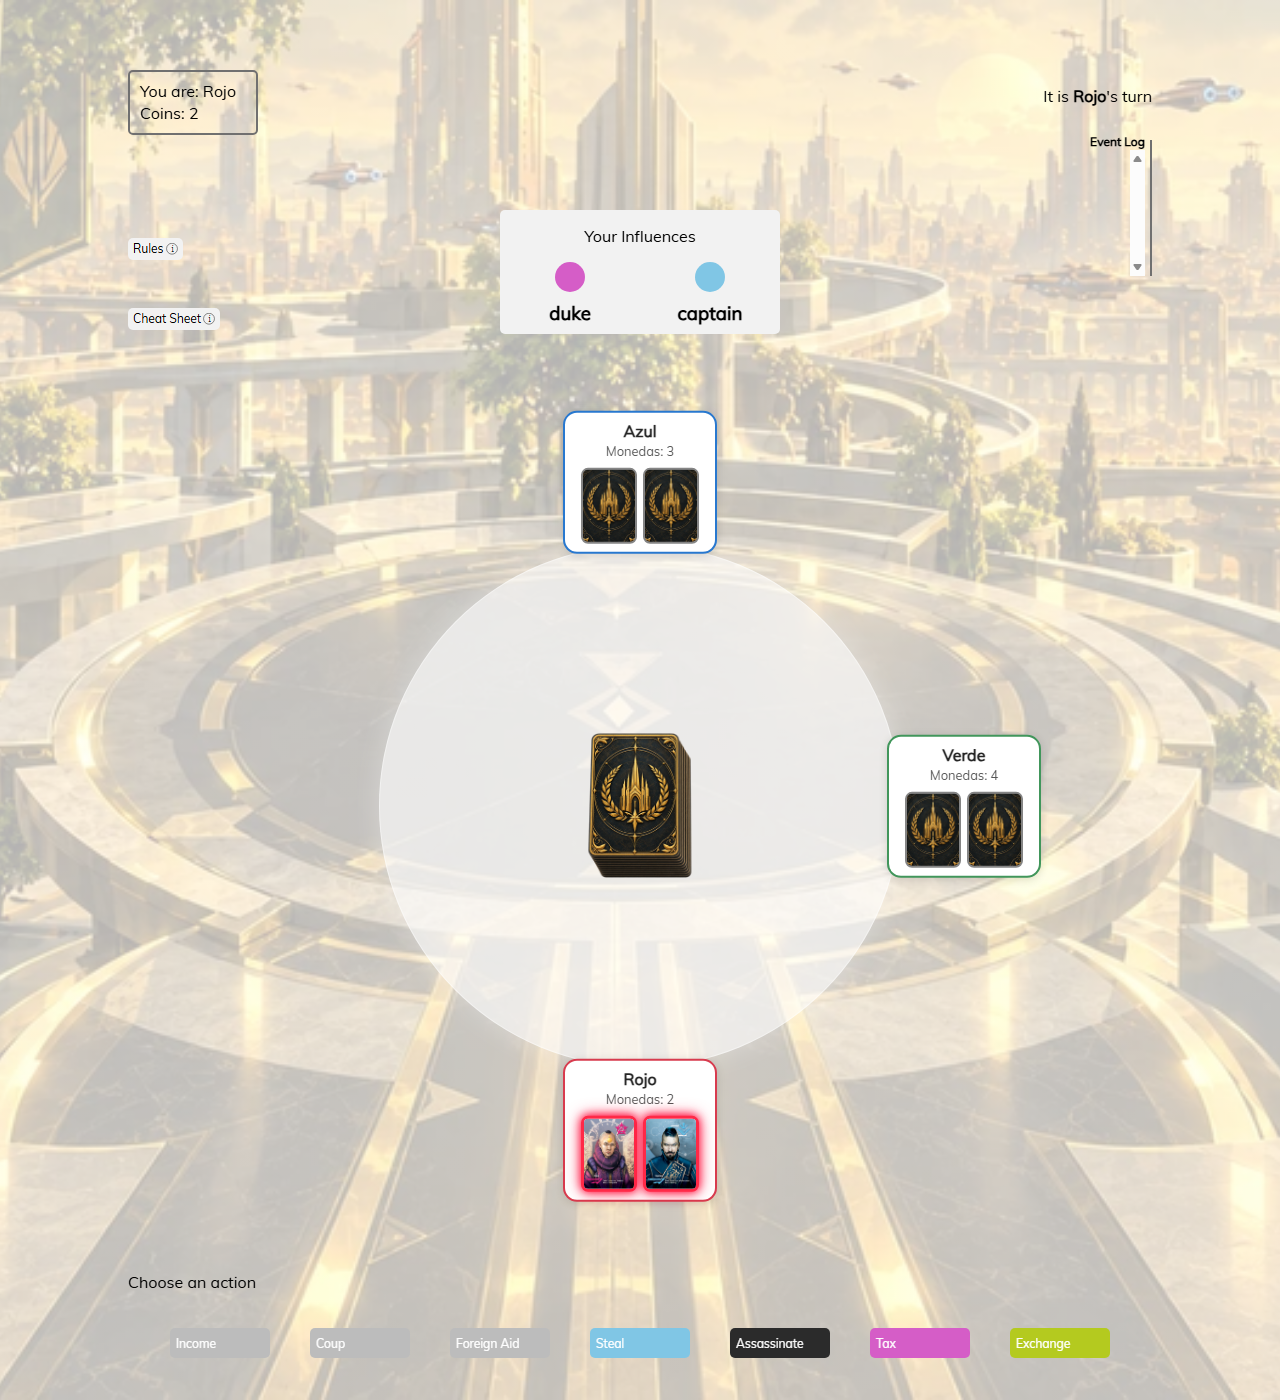
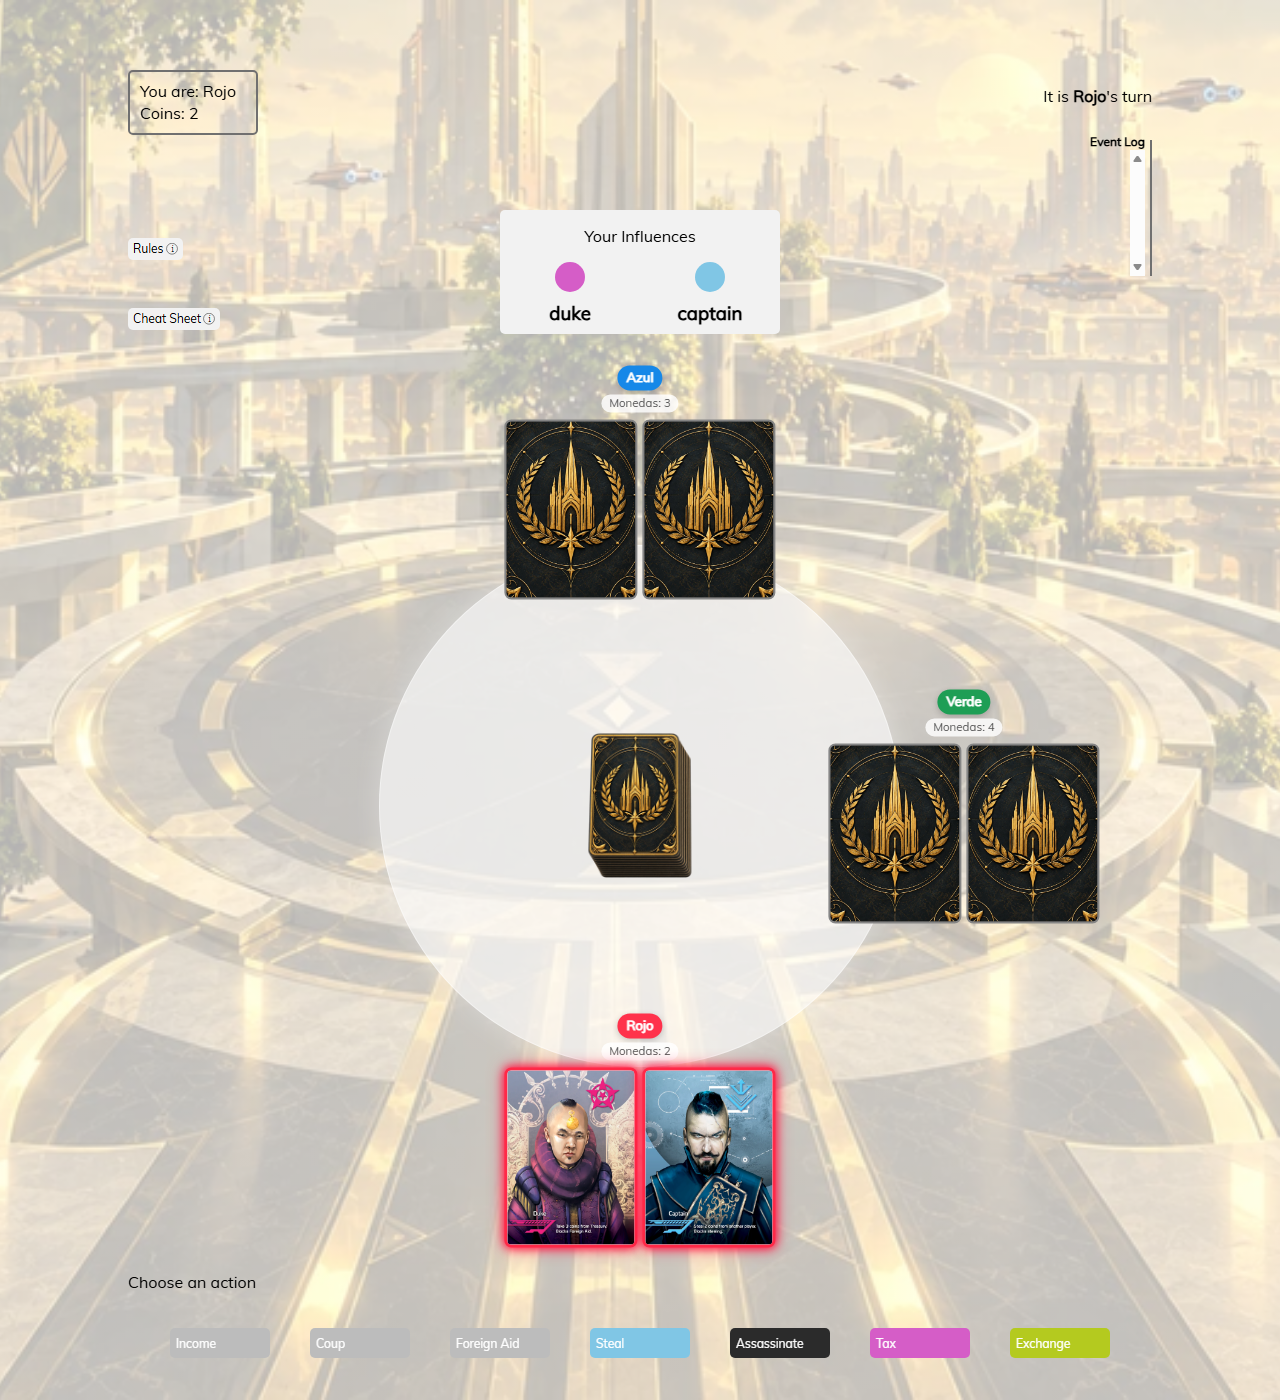
fix(board): render large player cards without seat panels

Changed region(s): [[0.375, 0.7064, 0.625, 0.9214], [0.625, 0.4914, 0.875, 0.6757], [0.375, 0.2457, 0.625, 0.43]]

diff --git a/coup-client/src/components/game/PlayerBoardStyles.css b/coup-client/src/components/game/PlayerBoardStyles.css
@@ -56,24 +56,25 @@
 .PlayerBoardSeat {
     position: absolute;
     z-index: 3;
-    width: 154px;
-    max-width: 42%;
+    width: max-content;
+    max-width: 46%;
     box-sizing: border-box;
-    padding: 8px;
-    border: 2px solid var(--player-color, #707070);
-    border-radius: 14px;
-    background: #fff;
     color: #252525;
-    box-shadow: 0 2px 8px rgba(0, 0, 0, 0.12);
     text-align: center;
     transform: translate(-50%, -50%);
 }
 
 .PlayerBoardSeatName {
     overflow: hidden;
-    margin: 0;
-    color: #252525;
-    font-size: 1rem;
+    width: fit-content;
+    max-width: 100%;
+    margin: 0 auto 4px;
+    padding: 4px 9px;
+    border-radius: 999px;
+    background: var(--player-color, #707070);
+    box-shadow: 0 2px 6px rgba(0, 0, 0, 0.2);
+    color: #fff;
+    font-size: 0.82rem;
     font-weight: 600;
     line-height: 1.25;
     text-overflow: ellipsis;
@@ -81,22 +82,28 @@
 }
 
 .PlayerBoardSeatCoins {
-    margin: 3px 0 8px;
+    display: table;
+    margin: 0 auto 7px;
+    padding: 2px 8px;
+    border-radius: 999px;
+    background: rgba(255, 255, 255, 0.82);
     color: #555;
-    font-size: 0.8rem;
+    font-size: 0.72rem;
     line-height: 1.2;
 }
 
 .PlayerBoardSeatInfluences {
     display: flex;
     justify-content: center;
-    gap: 6px;
+    gap: 5px;
 }
 
 .PlayerInfluenceSlot {
     display: inline-flex;
-    width: 56px;
-    height: 76px;
+    flex: 0 0 auto;
+    width: clamp(76px, 10.4vw, 134px);
+    height: auto;
+    aspect-ratio: 0.74;
     box-sizing: border-box;
     align-items: center;
     justify-content: center;
@@ -146,12 +153,22 @@
 
 @media only screen and (max-width: 520px) {
     .PlayerBoardSeat {
-        width: 122px;
-        padding: 6px;
+        max-width: 48%;
     }
 
     .PlayerInfluenceSlot {
-        width: 46px;
-        height: 64px;
+        width: clamp(58px, 15.5vw, 82px);
+    }
+
+    .PlayerBoardSeatName {
+        font-size: 0.72rem;
+    }
+
+    .PlayerBoardSeat[data-seat-edge="left"] {
+        transform: translate(calc(-50% + clamp(16px, 5vw, 26px)), -50%);
+    }
+
+    .PlayerBoardSeat[data-seat-edge="right"] {
+        transform: translate(calc(-50% - clamp(16px, 5vw, 26px)), -50%);
     }
 }

diff --git a/coup-client/src/components/game/PlayerBoard.js b/coup-client/src/components/game/PlayerBoard.js
@@ -74,7 +74,7 @@ export default function PlayerBoard(props) {
     const seats = getPlayerBoardSeats(players, props.observerName)
 
     return (
-        <div className="PlayerBoardContainer" role="group" aria-label="Tablero de jugadores">
+        <div className="PlayerBoardContainer" data-player-count={players.length} role="group" aria-label="Tablero de jugadores">
             <div className="PlayerBoardCenter" aria-hidden="true" />
             <img
                 className="PlayerBoardDeck"
@@ -84,6 +84,7 @@ export default function PlayerBoard(props) {
             />
             {seats.map(({ player, seatIndex, left, top, isObserver }) => {
                 const isCurrentPlayer = player.name === props.currentPlayer
+                const seatEdge = left <= 20 ? 'left' : left >= 80 ? 'right' : undefined
                 const seatClassName = [
                     'PlayerBoardSeat',
                     isCurrentPlayer ? 'PlayerBoardSeat--current' : ''
@@ -93,6 +94,7 @@ export default function PlayerBoard(props) {
                     className={seatClassName}
                     key={player.name}
                     data-seat-index={seatIndex}
+                    data-seat-edge={seatEdge}
                     data-current-player={isCurrentPlayer ? 'true' : 'false'}
                     aria-current={isCurrentPlayer ? 'true' : undefined}
                     style={{

diff --git a/docs/plans/circular-board-visual-polish/plan_circular_board_visual_polish.md b/docs/plans/circular-board-visual-polish/plan_circular_board_visual_polish.md
@@ -34,7 +34,7 @@ En el checkout local, el archivo de fondo disponible se llama `fotos/backgrond.p
 1. `background.webp` mide como máximo 1024 px de ancho, conserva proporción/transparencia y es el único asset nuevo; el PNG local no aparece en el diff.
 2. El fondo cubre la página/viewport completa, se muestra centrado sin deformarse y tiene opacidad efectiva aproximada de 30% sobre blanco; la plataforma circular central sigue reconocible como paisaje.
 3. El disco central es claramente circular, traslúcido, está centrado detrás del mazo y no altera su tamaño ni interacción.
-4. Las cartas de jugador se perciben mayores que las actuales (desktop 48×64 px, compacto 42×58 px) y no se solapan ni ocultan monedas, asientos, centro o controles para 2, 3, 4, 5 y 6 jugadores.
+4. Las cartas de jugador se perciben grandes (hasta 134 px de ancho en escritorio; `clamp(58px, 15.5vw, 82px)` en compacto), sin caja blanca exterior ni recortes laterales para 2–6 jugadores. Las etiquetas conservan nombre, monedas y color.
 5. Se mantienen visibles los colores y el contorno neón del turno, cartas propias/rivales, y estados de influencia perdida/eliminación.
 6. Previews de escritorio y ancho compacto permiten comparar la composición con las referencias; el navegador compila el cliente sin errores.
 
@@ -47,6 +47,7 @@ Una fase `F1 — Integrar fondo, centro y escala de cartas`. Pregunta: ¿el tabl
 - 2026-09-25 20:03 -06:00: Alquimista reclamó F1 en la rama `issue/9-circular-board-visual-polish`; worktree limpio y basado en `origin/master` (`64593af`), con un commit previo de checkpoint documental (`bf38210`). Fuente inspeccionada: 1672×941 RGB, sin canal alfa. El recorte centrado cuadrado conserva la plataforma circular central.
 - 2026-09-25 20:54 -06:00: F1 cerrada; fondo WebP 1024×576 RGB (224710 bytes), proporción preservada por redimensionado, sin alfa en el PNG fuente. El tablero con disco y cartas mayores se revisó en 2–6 jugadores, 1280×1400 y 490×1200; panel de acciones visible debajo. Evidencia: `docs/plans/circular-board-visual-polish/report_issue_9_F1.md`. Dev server compiló con advertencias ESLint preexistentes; `git diff --check` correcto; no se ejecutaron tests ni build de producción. Pasa a revisión del Orquestador.
 - 2026-09-25 21:40 -06:00: Corrección solicitada tras revisión: el fondo pasó de una capa absoluta dentro del tablero cuadrado a cubrir todo el viewport desde `.GameContainer::before`; ahora usa `cover` centrado, capa blanca CSS de 0.70 y opacidad efectiva aproximada de imagen 0.30. Se renovaron las diez capturas 2–6 jugadores × escritorio/compacto y se inspeccionó la cobertura de las franjas de página. PR #10 permanece abierto y sin merge.
+- 2026-09-26 05:06 -06:00: Nueva corrección de PR #10: se quitó la caja blanca exterior de los asientos; las cartas crecieron a 134px máximo en escritorio y 58–82px en compacto, con etiquetas de jugador en color. Se detectaron recortes compactos en los asientos próximos al borde para 3–5; `PlayerBoard.js` expone el borde derivado de la coordenada calculada y CSS compensa hacia adentro en <=520px, sin depender del índice ni alterar el cálculo base del círculo. Se regeneraron las 10 capturas; se revisaron 3p/6p escritorio y 3–6 compacto, con pares completos y sin solapamientos. Harness temporal de `App.js` restaurado; `start-pc` compiló antes y después, con advertencias ESLint existentes. `git diff --check` pasó. PR #10 sigue abierta, sin merge.
 
 **Validación mínima:** inspección visual de previews y compilación local del cliente. No agregar ni ejecutar tests automatizados para este cambio visual.
 

diff --git a/docs/plans/circular-board-visual-polish/report_issue_9_F1.md b/docs/plans/circular-board-visual-polish/report_issue_9_F1.md
@@ -3,7 +3,9 @@
 ## Resultado
 
 - Convertí `E:\dev\coup\fotos\backgrond.png` (1672×941, RGB, sin alfa) a `coup-client/src/assets/background.webp` (1024×576, RGB, 224710 bytes). La proporción se mantiene mediante redimensionado proporcional. Corrección de PR #10: el fondo blanco cubre el viewport completo y el velo blanco CSS al 70% deja una opacidad efectiva de imagen de 30%.
-- El fondo usa `cover` centrado en una capa fija de viewport, sin deformación; la plataforma central del arte permanece reconocible y la imagen también aparece en las franjas superior e inferior de la página. Añadí un disco blanco translúcido centrado detrás del mazo y amplié las cartas a 56×76 px en escritorio y 46×64 px en compacto.
+- El fondo usa `cover` centrado en una capa fija de viewport, sin deformación; la plataforma central del arte permanece reconocible y la imagen también aparece en las franjas superior e inferior de la página. Añadí un disco blanco translúcido centrado detrás del mazo.
+- Corrección de cartas solicitada para PR #10: quité el panel blanco exterior de cada asiento y dejé nombre/monedas en etiquetas compactas con color de jugador. Las influencias miden hasta 134 px de ancho en escritorio y usan `clamp(58px, 15.5vw, 82px)` en compacto (76 px a 490 px). El contorno neón sigue en las cartas del jugador actual.
+- Para pantallas compactas, los asientos próximos a los bordes desplazan sus cartas hacia adentro según su coordenada horizontal calculada; el cálculo base del círculo se conserva. Así se mantienen completas las cartas laterales en 3, 4, 5 y 6 jugadores.
 - No cambié posiciones, colores, resalte neón, reversos, reglas, socket ni paneles. No versioné el PNG fuente.
 
 ## Evidencia visual
@@ -18,12 +20,12 @@ Capturas de navegador con `PlayerBoard` real, fixtures locales de 2–6 jugadore
 | 5 | [preview](preview_issue_9_F1_5p_desktop.png) | [preview](preview_issue_9_F1_5p_mobile.png) |
 | 6 | [preview](preview_issue_9_F1_6p_desktop.png) | [preview](preview_issue_9_F1_6p_mobile.png) |
 
-Revisé la composición, en especial 3 y 6 jugadores. Los paneles y controles quedan visibles. En compacto para 3 jugadores, el asiento derecho se recorta parcialmente; el layout queda intacto en esta corrección, fuera del alcance solicitado. La simulación no usa partida/socket real ni se hicieron clics en acciones.
+Revisé la composición, en especial 3 y 6 jugadores en escritorio y compacto. Los pares de cartas, el mazo, disco, nombres, monedas y controles no se solapan; los asientos de borde permanecen dentro del viewport. La simulación usa `Coup`/`ActionDecision` reales con fixtures deterministas y socket sin red; no usa partida/socket real ni se hicieron clics en acciones.
 
 ## Validación
 
 - `npm ci`: completó para instalar las dependencias del worktree.
-- `npm run start-pc`: compiló el cliente, incluidos los cambios de `PlayerBoard`. Para generar capturas se usó temporalmente un harness en `App.js`, restaurado antes del cierre. Quedaron advertencias ESLint ya existentes en `App.js` (`logo`, `Link`) y `Coup.js` (`ReactModal` sin uso).
+- `npm run start-pc`: compiló el cliente con el fixture y volvió a compilar tras restaurar `App.js`. El harness fue temporal y no forma parte del diff. Quedaron advertencias ESLint existentes en `App.js` (`logo`, `Link`) y `Coup.js` (`ReactModal` sin uso).
 - `git diff --check`: pasó.
 - No ejecuté tests automatizados ni build de producción, de acuerdo con el alcance.
 

diff --git a/docs/plans/inbox/issue_9_circular_board_visual_polish.md b/docs/plans/inbox/issue_9_circular_board_visual_polish.md
@@ -46,4 +46,4 @@ Entregar commit, reporte breve, dimensiones/peso del WebP, previews, comandos y 
 
 ## Reporte F1
 
-F1 quedó implementada y revisada visualmente en 2–6 jugadores para 1280×1400 y 490×1200. Tras la corrección, el fondo cubre el viewport completo con opacidad efectiva 0.30; el informe, WebP y capturas están registrados en `docs/plans/circular-board-visual-polish/report_issue_9_F1.md`. Cliente compilado; `git diff --check` pasó. PR #10 abierto; issue abierta y sin merge.
+F1 quedó implementada y revisada visualmente en 2–6 jugadores para 1280×1400 y 490×1200. El fondo cubre el viewport con opacidad efectiva 0.30; las cartas grandes ya no tienen caja blanca exterior y los asientos laterales se desplazan automáticamente hacia adentro en viewport compacto para evitar recortes. El informe, WebP y diez capturas finales están en `docs/plans/circular-board-visual-polish/report_issue_9_F1.md`. Cliente compilado; `git diff --check` pasó. PR #10 abierta; issue abierta y sin merge.
